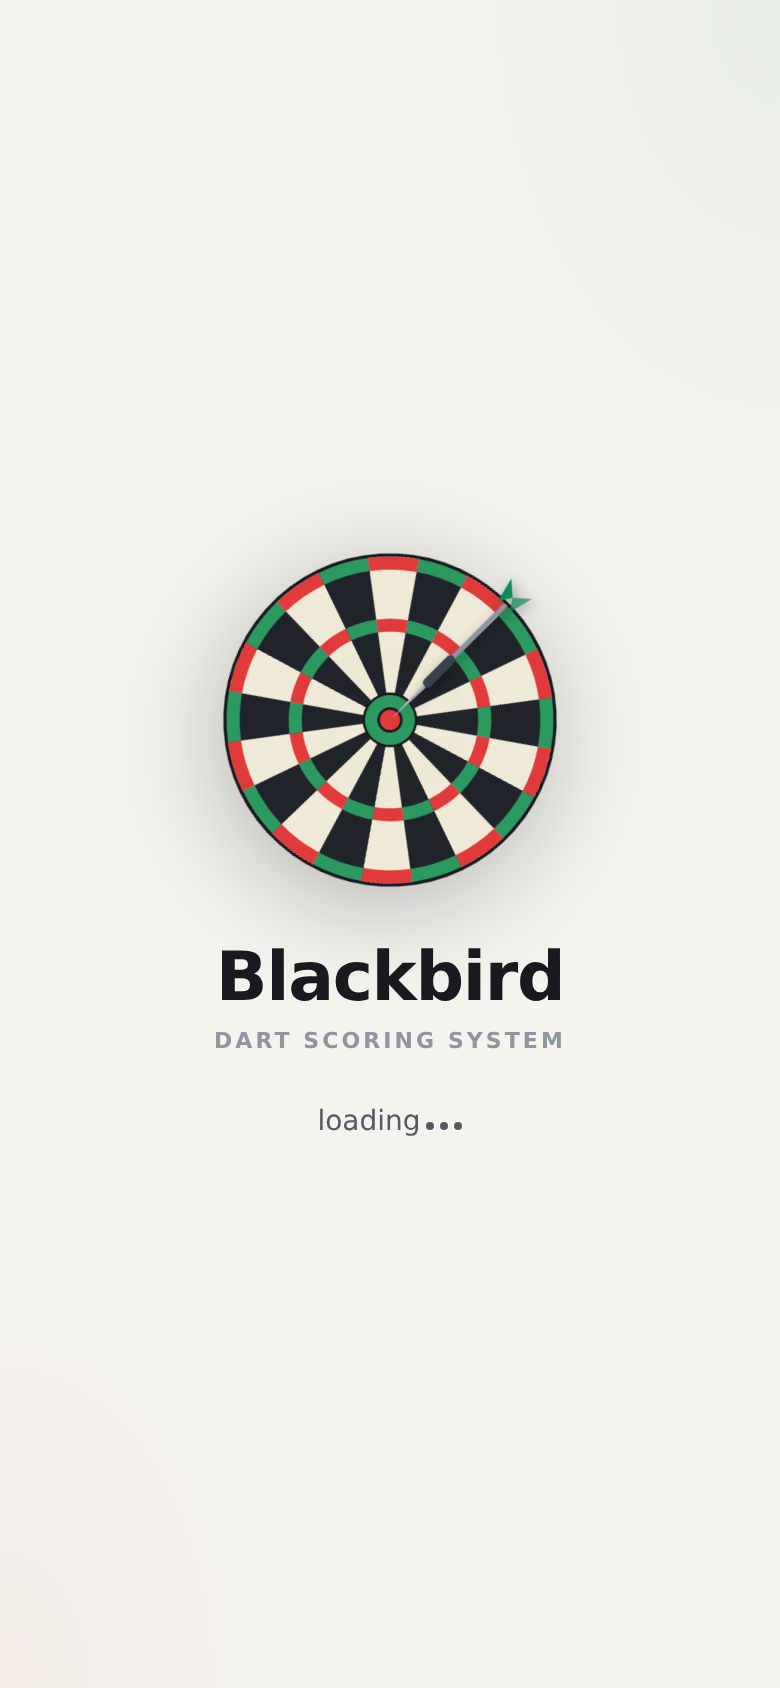
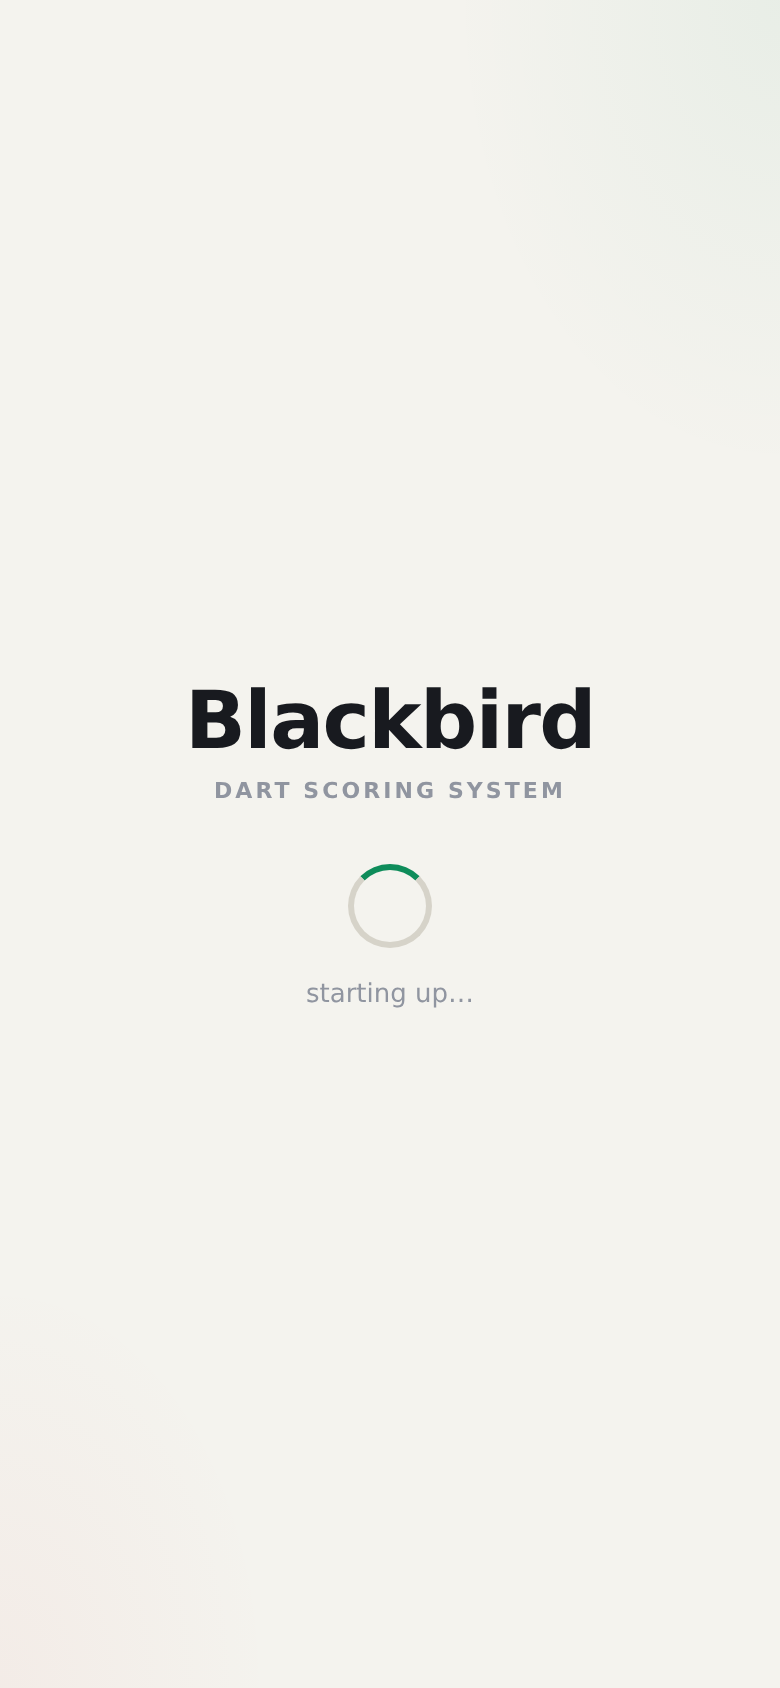
Replace splash with wordmark + loading wheel held 1-3s per open
- LoadingScreen is now the Blackbird wordmark with a spinner below it.
- page.js holds the splash for a random 1-3 seconds on every launch
  (in addition to real auth/data time) for perceived loading.
- Works in light and dark themes; honors prefers-reduced-motion.
- README: splash documented, screenshots refreshed.

Claude-Session: https://claude.ai/code/session_01QARoeoGxiKuoxC6n1iZQd3

Changed region(s): [[0.2462, 0.3081, 0.7692, 0.6161], [0.4, 0.6469, 0.5538, 0.6777]]

diff --git a/app/globals.css b/app/globals.css
@@ -558,137 +558,45 @@ label.check input {
   flex-direction: column;
   align-items: center;
   justify-content: center;
-  gap: 6px;
   padding: 24px;
   text-align: center;
-}
-.load-stage {
-  position: relative;
-  width: 170px;
-  height: 170px;
-  margin-bottom: 20px;
-  animation: load-up 0.5s ease both;
-}
-.load-board {
-  display: block;
-  animation: load-spin 30s linear infinite;
-  filter: drop-shadow(0 10px 26px rgba(0, 0, 0, 0.25));
-}
-.load-dart {
-  position: absolute;
-  left: 82px;
-  top: 75px;
-  transform-origin: 3.2px 10px;
-  transform: translate(120px, -120px) rotate(-45deg);
-  animation: load-dart 2.8s infinite;
-  will-change: transform, opacity;
-  filter: drop-shadow(0 2px 3px rgba(0, 0, 0, 0.35));
-}
-.load-ring {
-  position: absolute;
-  left: 50%;
-  top: 50%;
-  width: 14px;
-  height: 14px;
-  margin: -7px 0 0 -7px;
-  border-radius: 50%;
-  border: 2px solid var(--accent);
-  opacity: 0;
-  animation: load-ring 2.8s infinite;
-  pointer-events: none;
 }
 .load-title {
   font-family: var(--font-display-stack);
   font-weight: 800;
-  font-size: calc(34px * var(--fs-chrome));
+  font-size: calc(40px * var(--fs-chrome));
   line-height: 1.1;
   letter-spacing: -0.02em;
-  animation: load-up 0.5s 0.12s ease both;
+  color: var(--ink);
+  animation: load-up 0.5s ease both;
 }
 .load-sub {
+  margin-top: 6px;
   text-transform: uppercase;
   letter-spacing: 0.14em;
   font-size: calc(11px * var(--fs-chrome));
   font-weight: 700;
   color: var(--muted);
-  animation: load-up 0.5s 0.22s ease both;
+  animation: load-up 0.5s 0.1s ease both;
+}
+.load-spinner {
+  width: 42px;
+  height: 42px;
+  margin-top: 30px;
+  border-radius: 50%;
+  border: 3.5px solid var(--line-strong);
+  border-top-color: var(--accent);
+  animation: load-up 0.5s 0.2s ease both, load-spin 0.9s linear infinite;
 }
 .load-status {
-  margin-top: 20px;
-  display: inline-flex;
-  align-items: baseline;
-  color: var(--ink-soft);
-  font-size: calc(14px * var(--fs-chrome));
-  animation: load-up 0.5s 0.32s ease both;
-}
-.load-dots {
-  display: inline-flex;
-  align-items: baseline;
-}
-.load-dots i {
-  width: 4px;
-  height: 4px;
-  border-radius: 50%;
-  background: currentColor;
-  margin-left: 3px;
-  animation: load-dot 1.2s infinite;
-}
-.load-dots i:nth-child(2) {
-  animation-delay: 0.15s;
-}
-.load-dots i:nth-child(3) {
-  animation-delay: 0.3s;
+  margin-top: 16px;
+  color: var(--muted);
+  font-size: calc(13px * var(--fs-chrome));
+  animation: load-up 0.5s 0.3s ease both;
 }
 @keyframes load-spin {
   to {
     transform: rotate(360deg);
-  }
-}
-@keyframes load-dart {
-  0% {
-    transform: translate(120px, -120px) rotate(-45deg);
-    opacity: 0;
-    animation-timing-function: cubic-bezier(0.55, 0, 0.85, 0.36);
-  }
-  6% {
-    opacity: 1;
-  }
-  30% {
-    transform: translate(0, 0) rotate(-45deg);
-    animation-timing-function: ease-out;
-  }
-  34% {
-    transform: translate(0, 0) rotate(-49deg);
-  }
-  38% {
-    transform: translate(0, 0) rotate(-45deg);
-  }
-  80% {
-    transform: translate(0, 0) rotate(-45deg);
-    opacity: 1;
-  }
-  90% {
-    opacity: 0;
-  }
-  100% {
-    transform: translate(120px, -120px) rotate(-45deg);
-    opacity: 0;
-  }
-}
-@keyframes load-ring {
-  0%,
-  29% {
-    opacity: 0;
-    transform: scale(0.4);
-  }
-  31% {
-    opacity: 0.8;
-    transform: scale(0.5);
-  }
-  60%,
-  100% {
-    opacity: 0;
-    transform: scale(5.5);
   }
 }
 @keyframes load-up {
@@ -702,27 +610,11 @@ label.check input {
   }
 }
 @media (prefers-reduced-motion: reduce) {
-  .load-board,
-  .load-dart,
-  .load-ring,
-  .load-stage,
   .load-title,
   .load-sub,
-  .load-status,
-  .load-dots i {
-    animation: none;
-  }
-  .load-stage,
-  .load-title,
-  .load-sub,
+  .load-spinner,
   .load-status {
+    animation: none;
     opacity: 1;
-  }
-  .load-dart {
-    transform: translate(0, 0) rotate(-45deg);
-    opacity: 1;
-  }
-  .load-ring {
-    display: none;
   }
 }

diff --git a/components/LoadingScreen.js b/components/LoadingScreen.js
@@ -1,72 +1,18 @@
-function pt(r, deg) {
-  const a = (deg * Math.PI) / 180;
-  return [100 + r * Math.cos(a), 100 + r * Math.sin(a)];
-}
-
-function sector(rI, rO, a0, a1) {
-  const [x0, y0] = pt(rO, a0);
-  const [x1, y1] = pt(rO, a1);
-  const [x2, y2] = pt(rI, a1);
-  const [x3, y3] = pt(rI, a0);
-  return `M${x0} ${y0} A${rO} ${rO} 0 0 1 ${x1} ${y1} L${x2} ${y2} A${rI} ${rI} 0 0 0 ${x3} ${y3} Z`;
-}
-
-const WEDGES = [];
-for (let i = 0; i < 20; i++) {
-  const c = -90 + i * 18;
-  const a0 = c - 9;
-  const a1 = c + 9;
-  const dark = i % 2 === 0;
-  WEDGES.push({ key: `s${i}`, d: sector(16, 100, a0, a1), fill: dark ? "#20242a" : "#efe9d8" });
-  WEDGES.push({ key: `d${i}`, d: sector(92, 100, a0, a1), fill: dark ? "#2c9a60" : "#e03a3a" });
-  WEDGES.push({ key: `t${i}`, d: sector(54, 62, a0, a1), fill: dark ? "#2c9a60" : "#e03a3a" });
-}
-
 /**
- * Splash / loading screen: a slowly spinning dartboard with a dart that
- * flies in and sticks in the bull on a loop, plus the wordmark. Pure CSS
- * animation (see "loading screen" section of globals.css); honors
- * prefers-reduced-motion.
+ * Splash shown on every app open: the Blackbird wordmark with a loading
+ * wheel below it. page.js keeps this up for 1–3 seconds per open (plus
+ * however long auth/data actually take) so launching always has a moment
+ * of perceived loading. Honors prefers-reduced-motion.
  */
 export default function LoadingScreen({ text = "loading…" }) {
   return (
     <main className="app">
       <div className="load-wrap">
-        <div className="load-stage" aria-hidden="true">
-          <svg className="load-board" viewBox="-4 -4 208 208" width="170" height="170">
-            <circle cx={100} cy={100} r={102} fill="#181a1f" />
-            {WEDGES.map((w) => (
-              <path key={w.key} d={w.d} fill={w.fill} />
-            ))}
-            <circle cx={100} cy={100} r={16} fill="#2c9a60" stroke="#181a1f" strokeWidth="1.5" />
-            <circle cx={100} cy={100} r={7} fill="#e03a3a" stroke="#181a1f" strokeWidth="1.5" />
-          </svg>
-
-          <span className="load-ring" />
-
-          <svg className="load-dart" viewBox="0 0 120 24" width="96" height="20">
-            {/* flight */}
-            <path d="M112 12 L120 3 L104 7 Z" fill="var(--accent)" />
-            <path d="M112 12 L120 21 L104 17 Z" fill="var(--accent)" opacity="0.7" />
-            {/* shaft + barrel */}
-            <rect x="58" y="10.4" width="48" height="3.2" rx="1.6" fill="#8b94a1" />
-            <rect x="34" y="9" width="26" height="6" rx="3" fill="#3a414b" />
-            {/* point */}
-            <path d="M34 12 L4 12 L34 10.6 Z" fill="#b8bec8" />
-            <path d="M34 12 L4 12 L34 13.4 Z" fill="#9aa1ac" />
-          </svg>
-        </div>
-
         <div className="load-title">Blackbird</div>
         <div className="load-sub">dart scoring system</div>
-
+        <span className="load-spinner" aria-hidden="true" />
         <div className="load-status" role="status">
-          {text.replace(/…$/, "")}
-          <span className="load-dots">
-            <i />
-            <i />
-            <i />
-          </span>
+          {text}
         </div>
       </div>
     </main>

diff --git a/app/page.js b/app/page.js
@@ -25,6 +25,14 @@ export default function Page() {
   const [authReady, setAuthReady] = useState(false);
   const [session, setSession] = useState(null);
 
+  // Branded splash: hold the loading screen 1–3 s on every open so the app
+  // always launches with a moment of perceived loading.
+  const [splashDone, setSplashDone] = useState(false);
+  useEffect(() => {
+    const t = setTimeout(() => setSplashDone(true), 1000 + Math.random() * 2000);
+    return () => clearTimeout(t);
+  }, []);
+
   const [dataReady, setDataReady] = useState(false);
   const [players, setPlayers] = useState([]);
   const [results, setResults] = useState([]);
@@ -201,7 +209,7 @@ export default function Page() {
     );
   }
 
-  if (!authReady) return <LoadingScreen text="starting up…" />;
+  if (!authReady || !splashDone) return <LoadingScreen text="starting up…" />;
   if (!session) return <Auth />;
   if (!dataReady) return <LoadingScreen text="loading…" />;
 

diff --git a/README.md b/README.md
@@ -17,7 +17,7 @@ localStorage — Postgres is the single source of truth.
 
 | Loading screen | Loading (dark) | Home |
 |:---:|:---:|:---:|
-| <img src="docs/screenshots/loading-light.png" width="240" alt="Animated splash loading screen, light theme"> | <img src="docs/screenshots/loading-dark.png" width="240" alt="Animated splash loading screen, dark theme"> | <img src="docs/screenshots/home.png" width="240" alt="Home view with quick stats and top players"> |
+| <img src="docs/screenshots/loading-light.png" width="240" alt="Blackbird splash: wordmark with loading wheel, light theme"> | <img src="docs/screenshots/loading-dark.png" width="240" alt="Blackbird splash: wordmark with loading wheel, dark theme"> | <img src="docs/screenshots/home.png" width="240" alt="Home view with quick stats and top players"> |
 
 | Live cricket (MPR column) | Cricket leaderboard | Game setup |
 |:---:|:---:|:---:|
@@ -29,6 +29,8 @@ localStorage — Postgres is the single source of truth.
 
 ## What it is (at a glance)
 
+- **Launch splash**: every open starts with the Blackbird wordmark and a
+  loading wheel, held for 1–3 seconds, in the user's light or dark theme.
 - **Games**: X01 with optional double-out, Cricket (3 variants), Baseball
   (9 innings + extra innings on ties).
 - **Cricket MPR**: live **marks-per-round** for every player while the game is
@@ -95,17 +97,20 @@ Key design points:
 
 ## How the app works
 
-1. **Sign in** (Supabase email/password). Your display name is auto-added to
+1. **Open the app** — a branded splash (the Blackbird wordmark with a
+   loading wheel) shows for 1–3 seconds on every launch while auth and data
+   load behind it.
+2. **Sign in** (Supabase email/password). Your display name is auto-added to
    the shared `players` list so everyone can pick you as an opponent.
-2. **Setup** a game: pick the game type and options (start score + double-out
+3. **Setup** a game: pick the game type and options (start score + double-out
    for X01, variant for Cricket), and pick 1+ players.
-3. **Score the game** on the live screen. Cricket shows the classic marks
+4. **Score the game** on the live screen. Cricket shows the classic marks
    grid, points, a **live MPR column**, and the current **round number**;
    there's full undo (per dart and per turn) and a dartboard heat view of the
    turn. Solo games are practice and are not saved.
-4. **Finish** — the winner is detected automatically, Elo is updated pairwise
+5. **Finish** — the winner is detected automatically, Elo is updated pairwise
    (winner vs each loser), and a `game_results` row is inserted per player.
-5. **Browse stats** — Leaderboard (sortable by Elo/X01/Cricket MPR), Profiles
+6. **Browse stats** — Leaderboard (sortable by Elo/X01/Cricket MPR), Profiles
    (trend charts + per-game history), Matchup (Elo win probability +
    head-to-head), Insights (AI questions), and your Player Card.
 
